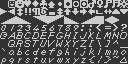
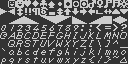
moving tiles around

Changed region(s): [[0.25, 0.25, 1.0, 0.375], [0.0, 0.25, 0.3125, 0.375]]

diff --git a/src/tiles.c b/src/tiles.c
@@ -51,15 +51,15 @@ void prepare_tileset()
 
     static const uint8_t names1[] =
     {
-        0, 1, 2, 3,     // 1..4: first row tiles (upper)
-        4, 5, 6, 7,     // 5..8: first row tiles (lower)
-        12, 12,         // 9..10: square tiles (lighted and shaded)
-        0, 1, 2, 3,     // 11..14: middle row tiles
-        -1, -1, -1, -1, // 15..18: last row of tiles
-        2, 3, 0, 1,     // 19..22: connection tiles
+        1, 2, 3, 4,     // 1..4: first row tiles (upper)
+        5, 6, 7, 8,     // 5..8: first row tiles (lower)
+        13, 13,         // 9..10: square tiles (lighted and shaded)
+        1, 2, 3, 4,     // 11..14: middle row tiles
+        0, 0, 0, 0,     // 15..18: last row of tiles
+        3, 4, 1, 2,     // 19..22: connection tiles
         /* pressed tiles */
-        -1, -1, -1, -1, // 23..26: middle row tiles (top)
-        -1, -1, -1, -1, // 27..30: middle row tiles (top)
+        0, 0, 0, 0,     // 23..26: middle row tiles (top)
+        0, 0, 0, 0,     // 27..30: middle row tiles (top)
     };
 
     static const uint8_t color_indexes1[] =
@@ -71,21 +71,21 @@ void prepare_tileset()
         0, 0, 0, 0,     // 15..18: last row of tiles
         1, 1, 1, 1,     // 19..22: connection tiles
         /* pressed tiles */
-        0, 0, 0, 0,
-        0, 0, 0, 0,
+        0, 0, 0, 0,     // 23..26: middle row tiles (top)
+        0, 0, 0, 0,     // 27..30: middle row tiles (top)
     };
 
     static const uint8_t names2[] =
     {
-        0, 1, 2, 3,     // 1..4: tiles from first row
-        2, 3, 0, 1,     // 5..8: tiles from second row
-        12, 12,         // 9..10: square tiles (lighted and shaded)
-        8, 9, 10, 11,   // 11..14: middle row tiles (top)
-        4, 5, 6, 7,     // 15..18: last row tiles
-        4, 5, 6, 7,     // 19..22: connection tiles
+        1, 2, 3, 4,     // 1..4: tiles from first row
+        3, 4, 1, 2,     // 5..8: tiles from second row
+        13, 13,         // 9..10: square tiles (lighted and shaded)
+        9, 10, 11, 12,  // 11..14: middle row tiles (top)
+        5, 6, 7, 8,     // 15..18: last row tiles
+        5, 6, 7, 8,     // 19..22: connection tiles
         /* pressed tiles */
-        8, 9, 10, 11,   // 23..26: middle row tiles (top)
-        4, 5, 6, 7,     // 27..30: last row tiles
+        9, 10, 11, 12,  // 23..26: middle row tiles (top)
+        5, 6, 7, 8,     // 27..30: last row tiles
     };
 
     static const uint8_t color_indexes2[] =
